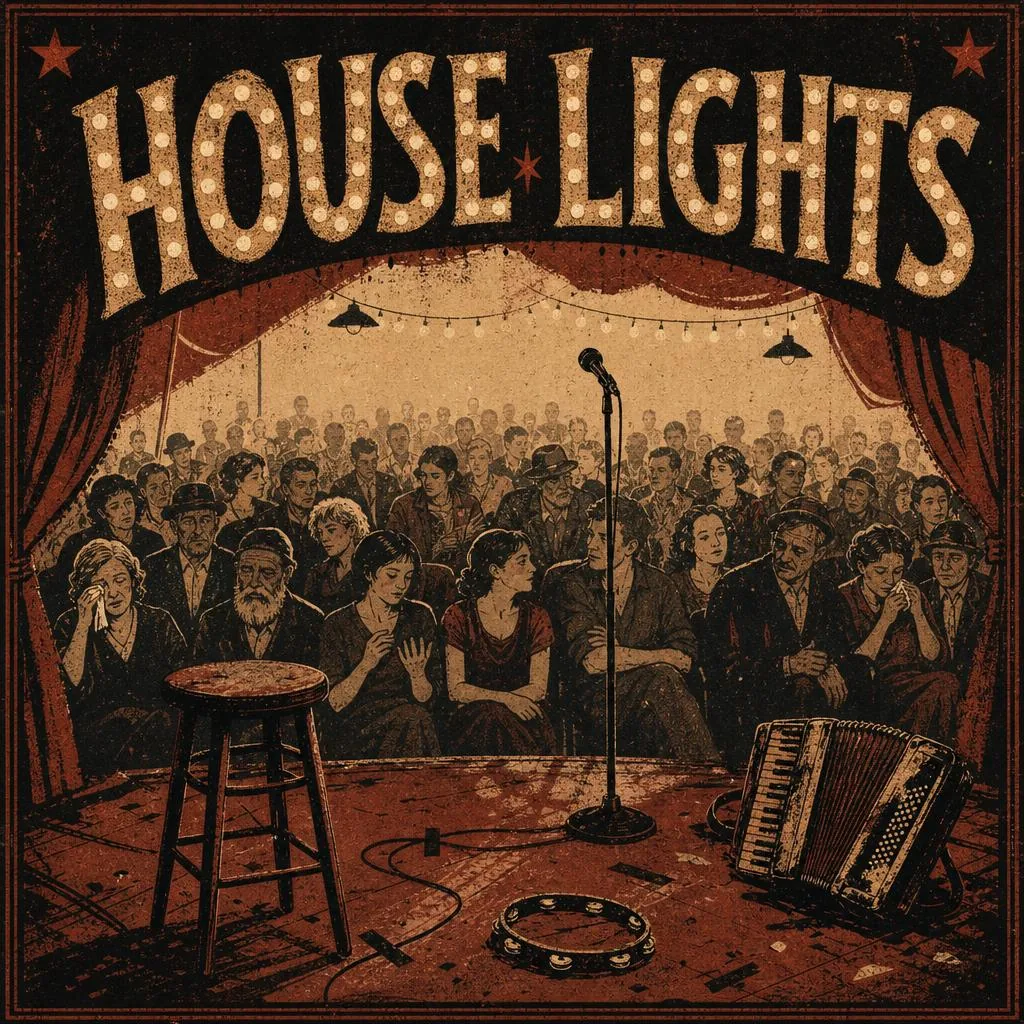
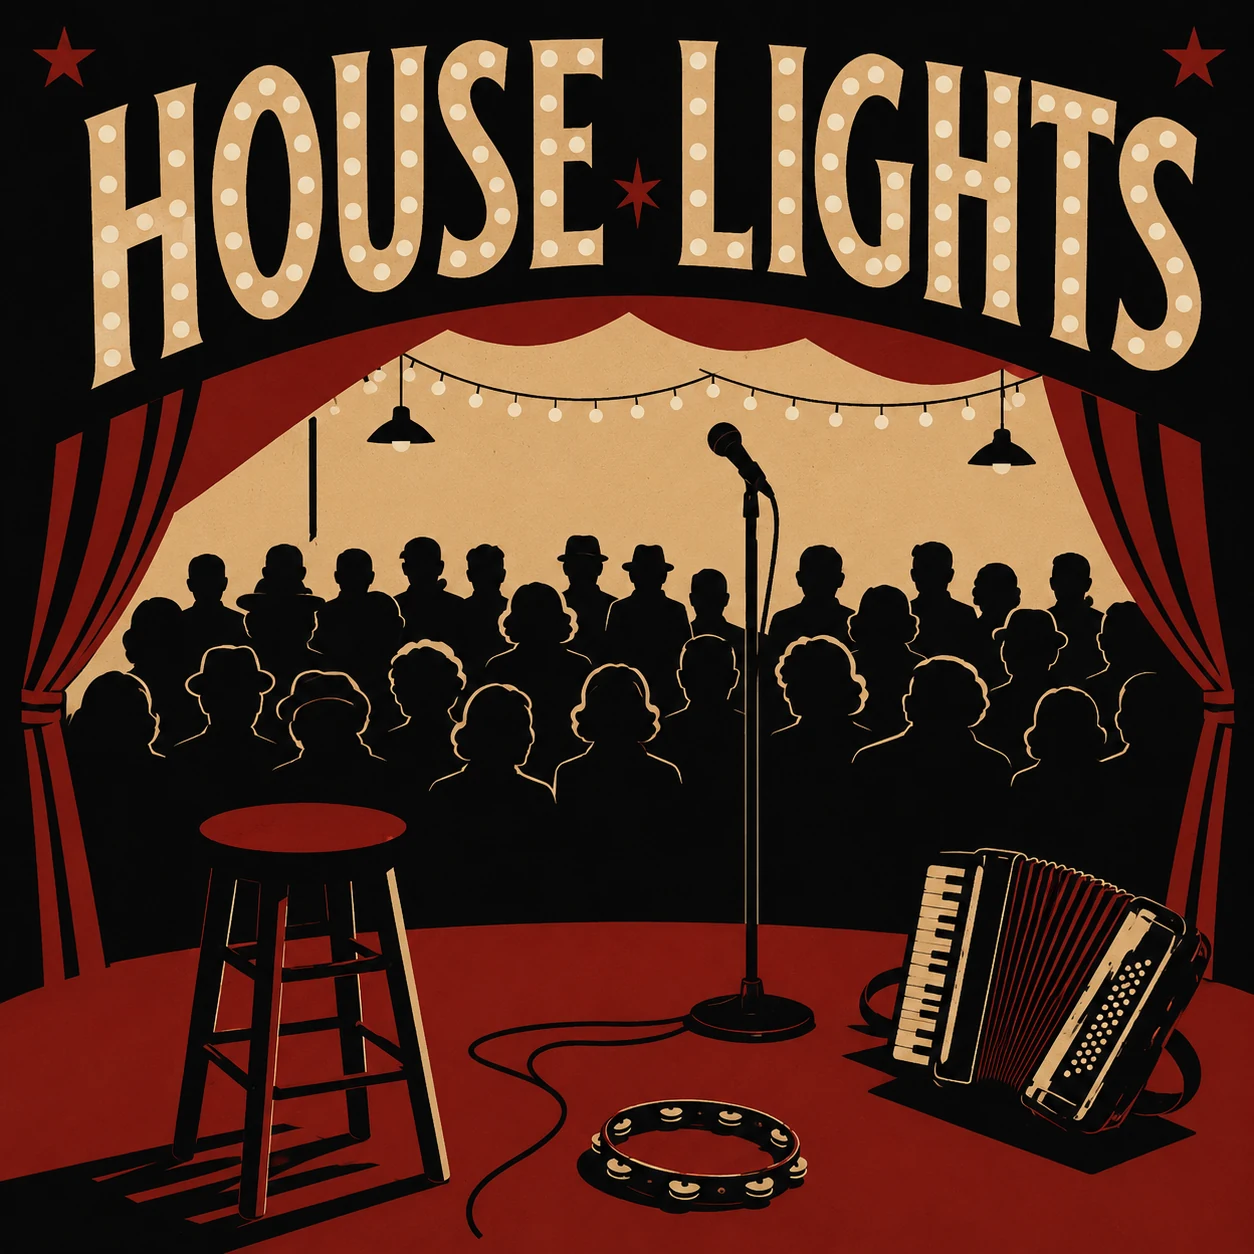
Junkyard Cabaret: refresh six title arts
Update hip-height, house-lights, pauses-gone, the-new-survivalism,
three-fifteen, and why-this-way title art with new 1254x1254 versions.
Bump cache-busting versions across song pages and main.js; fix house-lights
OG image dimensions (now 1254).

diff --git a/main.js b/main.js
@@ -3784,13 +3784,13 @@ function initGWORLightbox() {
 
 function initJCLightbox() {
     const tracks = [
-        { title: 'Why This Way', file: 'audio/junkyard-cabaret/why-this-way.mp3', cover: 'audio/junkyard-cabaret/why-this-way-title.webp?v=202605251048', article: 'https://charleswilke.substack.com/p/the-narrower-path' },
+        { title: 'Why This Way', file: 'audio/junkyard-cabaret/why-this-way.mp3', cover: 'audio/junkyard-cabaret/why-this-way-title.webp?v=202605251115', article: 'https://charleswilke.substack.com/p/the-narrower-path' },
         { title: 'Cathedral of Junk', file: 'audio/junkyard-cabaret/cathedral-of-junk.mp3', cover: 'audio/junkyard-cabaret/cathedral-of-junk-title.webp?v=202605251048', article: 'https://charleswilke.substack.com/p/theaters-last-stand' },
-        { title: 'Pauses Gone', file: 'audio/junkyard-cabaret/pauses-gone.mp3', cover: 'audio/junkyard-cabaret/pauses-gone-title.webp?v=202605251048', article: 'https://charleswilke.substack.com/p/staccato-again' },
-        { title: 'Three Fifteen', file: 'audio/junkyard-cabaret/three-fifteen.mp3', cover: 'audio/junkyard-cabaret/three-fifteen-title.webp?v=202605251048', article: 'https://charleswilke.substack.com/p/accumulated-velocity' },
-        { title: 'House Lights', file: 'audio/junkyard-cabaret/house-lights.mp3', cover: 'audio/junkyard-cabaret/house-lights-title.webp?v=202605242122', article: 'https://claude.ai/share/55400033-7fb7-4d4f-bb85-ddadd5fdc57f' },
-        { title: 'The New Survivalism', file: 'audio/junkyard-cabaret/the-new-survivalism.mp3?v=20260523a', cover: 'audio/junkyard-cabaret/the-new-survivalism-title.webp?v=202605242122', article: 'https://charleswilke.substack.com/p/the-new-survivalism' },
-        { title: 'Hip Height', file: 'audio/junkyard-cabaret/hip-height.mp3', cover: 'audio/junkyard-cabaret/hip-height-title.webp?v=202605242122', article: 'https://charleswilke.substack.com/p/know-thyself' }
+        { title: 'Pauses Gone', file: 'audio/junkyard-cabaret/pauses-gone.mp3', cover: 'audio/junkyard-cabaret/pauses-gone-title.webp?v=202605251115', article: 'https://charleswilke.substack.com/p/staccato-again' },
+        { title: 'Three Fifteen', file: 'audio/junkyard-cabaret/three-fifteen.mp3', cover: 'audio/junkyard-cabaret/three-fifteen-title.webp?v=202605251115', article: 'https://charleswilke.substack.com/p/accumulated-velocity' },
+        { title: 'House Lights', file: 'audio/junkyard-cabaret/house-lights.mp3', cover: 'audio/junkyard-cabaret/house-lights-title.webp?v=202605251115', article: 'https://claude.ai/share/55400033-7fb7-4d4f-bb85-ddadd5fdc57f' },
+        { title: 'The New Survivalism', file: 'audio/junkyard-cabaret/the-new-survivalism.mp3?v=20260523a', cover: 'audio/junkyard-cabaret/the-new-survivalism-title.webp?v=202605251115', article: 'https://charleswilke.substack.com/p/the-new-survivalism' },
+        { title: 'Hip Height', file: 'audio/junkyard-cabaret/hip-height.mp3', cover: 'audio/junkyard-cabaret/hip-height-title.webp?v=202605251115', article: 'https://charleswilke.substack.com/p/know-thyself' }
     ];
 
     const lightbox = document.getElementById('jcLightbox');

diff --git a/songs/junkyard-cabaret/house-lights/index.html b/songs/junkyard-cabaret/house-lights/index.html
@@ -13,16 +13,16 @@
     <meta property="og:url" content="https://charleswilke.com/songs/junkyard-cabaret/house-lights/">
     <meta property="og:title" content="House Lights | Junkyard Cabaret">
     <meta property="og:description" content="A track from Junkyard Cabaret. A ramshackle album-in-progress exploring conviction, imperfection, and the human insistence on making things by hand.">
-    <meta property="og:image" content="https://charleswilke.com/audio/junkyard-cabaret/house-lights-title.webp?v=202605242122">
-    <meta property="og:image:width" content="1024">
-    <meta property="og:image:height" content="1024">
+    <meta property="og:image" content="https://charleswilke.com/audio/junkyard-cabaret/house-lights-title.webp?v=202605251115">
+    <meta property="og:image:width" content="1254">
+    <meta property="og:image:height" content="1254">
     <meta property="og:image:alt" content="House Lights title art">
 
     <meta name="twitter:card" content="summary_large_image">
     <meta name="twitter:url" content="https://charleswilke.com/songs/junkyard-cabaret/house-lights/">
     <meta name="twitter:title" content="House Lights | Junkyard Cabaret">
     <meta name="twitter:description" content="A track from Junkyard Cabaret. A ramshackle album-in-progress exploring conviction, imperfection, and the human insistence on making things by hand.">
-    <meta name="twitter:image" content="https://charleswilke.com/audio/junkyard-cabaret/house-lights-title.webp?v=202605242122">
+    <meta name="twitter:image" content="https://charleswilke.com/audio/junkyard-cabaret/house-lights-title.webp?v=202605251115">
     <meta name="twitter:image:alt" content="House Lights title art">
 
     <link rel="icon" type="image/x-icon" href="/favicon.ico">
@@ -41,7 +41,7 @@
     "name": "Junkyard Cabaret"
   },
   "url": "https://charleswilke.com/songs/junkyard-cabaret/house-lights/",
-  "image": "https://charleswilke.com/audio/junkyard-cabaret/house-lights-title.webp?v=202605242122"
+  "image": "https://charleswilke.com/audio/junkyard-cabaret/house-lights-title.webp?v=202605251115"
 }
     </script>
 

diff --git a/songs/junkyard-cabaret/three-fifteen/index.html b/songs/junkyard-cabaret/three-fifteen/index.html
@@ -13,7 +13,7 @@
     <meta property="og:url" content="https://charleswilke.com/songs/junkyard-cabaret/three-fifteen/">
     <meta property="og:title" content="Three Fifteen | Junkyard Cabaret">
     <meta property="og:description" content="A track from Junkyard Cabaret. A ramshackle album-in-progress exploring conviction, imperfection, and the human insistence on making things by hand.">
-    <meta property="og:image" content="https://charleswilke.com/audio/junkyard-cabaret/three-fifteen-title.webp?v=202605251048">
+    <meta property="og:image" content="https://charleswilke.com/audio/junkyard-cabaret/three-fifteen-title.webp?v=202605251115">
     <meta property="og:image:width" content="1254">
     <meta property="og:image:height" content="1254">
     <meta property="og:image:alt" content="Three Fifteen title art">
@@ -22,7 +22,7 @@
     <meta name="twitter:url" content="https://charleswilke.com/songs/junkyard-cabaret/three-fifteen/">
     <meta name="twitter:title" content="Three Fifteen | Junkyard Cabaret">
     <meta name="twitter:description" content="A track from Junkyard Cabaret. A ramshackle album-in-progress exploring conviction, imperfection, and the human insistence on making things by hand.">
-    <meta name="twitter:image" content="https://charleswilke.com/audio/junkyard-cabaret/three-fifteen-title.webp?v=202605251048">
+    <meta name="twitter:image" content="https://charleswilke.com/audio/junkyard-cabaret/three-fifteen-title.webp?v=202605251115">
     <meta name="twitter:image:alt" content="Three Fifteen title art">
 
     <link rel="icon" type="image/x-icon" href="/favicon.ico">
@@ -41,7 +41,7 @@
     "name": "Junkyard Cabaret"
   },
   "url": "https://charleswilke.com/songs/junkyard-cabaret/three-fifteen/",
-  "image": "https://charleswilke.com/audio/junkyard-cabaret/three-fifteen-title.webp?v=202605251048"
+  "image": "https://charleswilke.com/audio/junkyard-cabaret/three-fifteen-title.webp?v=202605251115"
 }
     </script>
 

diff --git a/songs/junkyard-cabaret/pauses-gone/index.html b/songs/junkyard-cabaret/pauses-gone/index.html
@@ -13,7 +13,7 @@
     <meta property="og:url" content="https://charleswilke.com/songs/junkyard-cabaret/pauses-gone/">
     <meta property="og:title" content="Pauses Gone | Junkyard Cabaret">
     <meta property="og:description" content="A track from Junkyard Cabaret. A ramshackle album-in-progress exploring conviction, imperfection, and the human insistence on making things by hand.">
-    <meta property="og:image" content="https://charleswilke.com/audio/junkyard-cabaret/pauses-gone-title.webp?v=202605251048">
+    <meta property="og:image" content="https://charleswilke.com/audio/junkyard-cabaret/pauses-gone-title.webp?v=202605251115">
     <meta property="og:image:width" content="1254">
     <meta property="og:image:height" content="1254">
     <meta property="og:image:alt" content="Pauses Gone title art">
@@ -22,7 +22,7 @@
     <meta name="twitter:url" content="https://charleswilke.com/songs/junkyard-cabaret/pauses-gone/">
     <meta name="twitter:title" content="Pauses Gone | Junkyard Cabaret">
     <meta name="twitter:description" content="A track from Junkyard Cabaret. A ramshackle album-in-progress exploring conviction, imperfection, and the human insistence on making things by hand.">
-    <meta name="twitter:image" content="https://charleswilke.com/audio/junkyard-cabaret/pauses-gone-title.webp?v=202605251048">
+    <meta name="twitter:image" content="https://charleswilke.com/audio/junkyard-cabaret/pauses-gone-title.webp?v=202605251115">
     <meta name="twitter:image:alt" content="Pauses Gone title art">
 
     <link rel="icon" type="image/x-icon" href="/favicon.ico">
@@ -41,7 +41,7 @@
     "name": "Junkyard Cabaret"
   },
   "url": "https://charleswilke.com/songs/junkyard-cabaret/pauses-gone/",
-  "image": "https://charleswilke.com/audio/junkyard-cabaret/pauses-gone-title.webp?v=202605251048"
+  "image": "https://charleswilke.com/audio/junkyard-cabaret/pauses-gone-title.webp?v=202605251115"
 }
     </script>
 

diff --git a/songs/junkyard-cabaret/the-new-survivalism/index.html b/songs/junkyard-cabaret/the-new-survivalism/index.html
@@ -13,7 +13,7 @@
     <meta property="og:url" content="https://charleswilke.com/songs/junkyard-cabaret/the-new-survivalism/">
     <meta property="og:title" content="The New Survivalism | Junkyard Cabaret">
     <meta property="og:description" content="A track from Junkyard Cabaret, based on the Substack essay The New Survivalism.">
-    <meta property="og:image" content="https://charleswilke.com/audio/junkyard-cabaret/the-new-survivalism-title.webp?v=202605242122">
+    <meta property="og:image" content="https://charleswilke.com/audio/junkyard-cabaret/the-new-survivalism-title.webp?v=202605251115">
     <meta property="og:image:width" content="1254">
     <meta property="og:image:height" content="1254">
     <meta property="og:image:alt" content="The New Survivalism title art">
@@ -22,7 +22,7 @@
     <meta name="twitter:url" content="https://charleswilke.com/songs/junkyard-cabaret/the-new-survivalism/">
     <meta name="twitter:title" content="The New Survivalism | Junkyard Cabaret">
     <meta name="twitter:description" content="A track from Junkyard Cabaret, based on the Substack essay The New Survivalism.">
-    <meta name="twitter:image" content="https://charleswilke.com/audio/junkyard-cabaret/the-new-survivalism-title.webp?v=202605242122">
+    <meta name="twitter:image" content="https://charleswilke.com/audio/junkyard-cabaret/the-new-survivalism-title.webp?v=202605251115">
     <meta name="twitter:image:alt" content="The New Survivalism title art">
 
     <link rel="icon" type="image/x-icon" href="/favicon.ico">
@@ -41,7 +41,7 @@
     "name": "Junkyard Cabaret"
   },
   "url": "https://charleswilke.com/songs/junkyard-cabaret/the-new-survivalism/",
-  "image": "https://charleswilke.com/audio/junkyard-cabaret/the-new-survivalism-title.webp?v=202605242122"
+  "image": "https://charleswilke.com/audio/junkyard-cabaret/the-new-survivalism-title.webp?v=202605251115"
 }
     </script>
 

diff --git a/songs/junkyard-cabaret/why-this-way/index.html b/songs/junkyard-cabaret/why-this-way/index.html
@@ -13,7 +13,7 @@
     <meta property="og:url" content="https://charleswilke.com/songs/junkyard-cabaret/why-this-way/">
     <meta property="og:title" content="Why This Way | Junkyard Cabaret">
     <meta property="og:description" content="A track from Junkyard Cabaret, based on the Substack essay The Narrower Path.">
-    <meta property="og:image" content="https://charleswilke.com/audio/junkyard-cabaret/why-this-way-title.webp?v=202605251048">
+    <meta property="og:image" content="https://charleswilke.com/audio/junkyard-cabaret/why-this-way-title.webp?v=202605251115">
     <meta property="og:image:width" content="1254">
     <meta property="og:image:height" content="1254">
     <meta property="og:image:alt" content="Why This Way title art">
@@ -22,7 +22,7 @@
     <meta name="twitter:url" content="https://charleswilke.com/songs/junkyard-cabaret/why-this-way/">
     <meta name="twitter:title" content="Why This Way | Junkyard Cabaret">
     <meta name="twitter:description" content="A track from Junkyard Cabaret, based on the Substack essay The Narrower Path.">
-    <meta name="twitter:image" content="https://charleswilke.com/audio/junkyard-cabaret/why-this-way-title.webp?v=202605251048">
+    <meta name="twitter:image" content="https://charleswilke.com/audio/junkyard-cabaret/why-this-way-title.webp?v=202605251115">
     <meta name="twitter:image:alt" content="Why This Way title art">
 
     <link rel="icon" type="image/x-icon" href="/favicon.ico">
@@ -41,7 +41,7 @@
     "name": "Junkyard Cabaret"
   },
   "url": "https://charleswilke.com/songs/junkyard-cabaret/why-this-way/",
-  "image": "https://charleswilke.com/audio/junkyard-cabaret/why-this-way-title.webp?v=202605251048"
+  "image": "https://charleswilke.com/audio/junkyard-cabaret/why-this-way-title.webp?v=202605251115"
 }
     </script>
 

diff --git a/songs/junkyard-cabaret/hip-height/index.html b/songs/junkyard-cabaret/hip-height/index.html
@@ -13,7 +13,7 @@
     <meta property="og:url" content="https://charleswilke.com/songs/junkyard-cabaret/hip-height/">
     <meta property="og:title" content="Hip Height | Junkyard Cabaret">
     <meta property="og:description" content="A track from Junkyard Cabaret, based on the Substack essay Know Thyself.">
-    <meta property="og:image" content="https://charleswilke.com/audio/junkyard-cabaret/hip-height-title.webp?v=202605242122">
+    <meta property="og:image" content="https://charleswilke.com/audio/junkyard-cabaret/hip-height-title.webp?v=202605251115">
     <meta property="og:image:width" content="1254">
     <meta property="og:image:height" content="1254">
     <meta property="og:image:alt" content="Hip Height title art">
@@ -22,7 +22,7 @@
     <meta name="twitter:url" content="https://charleswilke.com/songs/junkyard-cabaret/hip-height/">
     <meta name="twitter:title" content="Hip Height | Junkyard Cabaret">
     <meta name="twitter:description" content="A track from Junkyard Cabaret, based on the Substack essay Know Thyself.">
-    <meta name="twitter:image" content="https://charleswilke.com/audio/junkyard-cabaret/hip-height-title.webp?v=202605242122">
+    <meta name="twitter:image" content="https://charleswilke.com/audio/junkyard-cabaret/hip-height-title.webp?v=202605251115">
     <meta name="twitter:image:alt" content="Hip Height title art">
 
     <link rel="icon" type="image/x-icon" href="/favicon.ico">
@@ -41,7 +41,7 @@
     "name": "Junkyard Cabaret"
   },
   "url": "https://charleswilke.com/songs/junkyard-cabaret/hip-height/",
-  "image": "https://charleswilke.com/audio/junkyard-cabaret/hip-height-title.webp?v=202605242122"
+  "image": "https://charleswilke.com/audio/junkyard-cabaret/hip-height-title.webp?v=202605251115"
 }
     </script>
 
